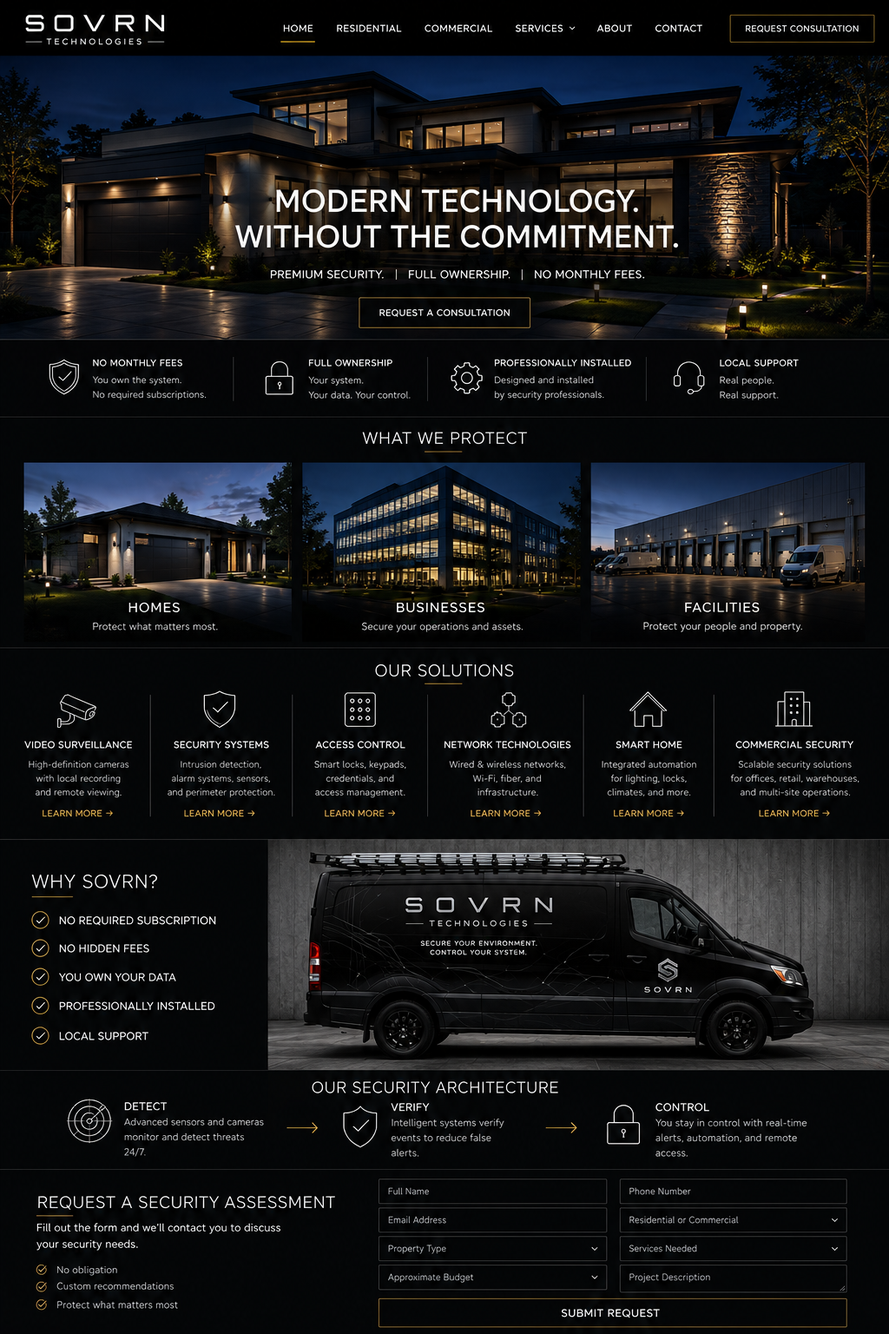
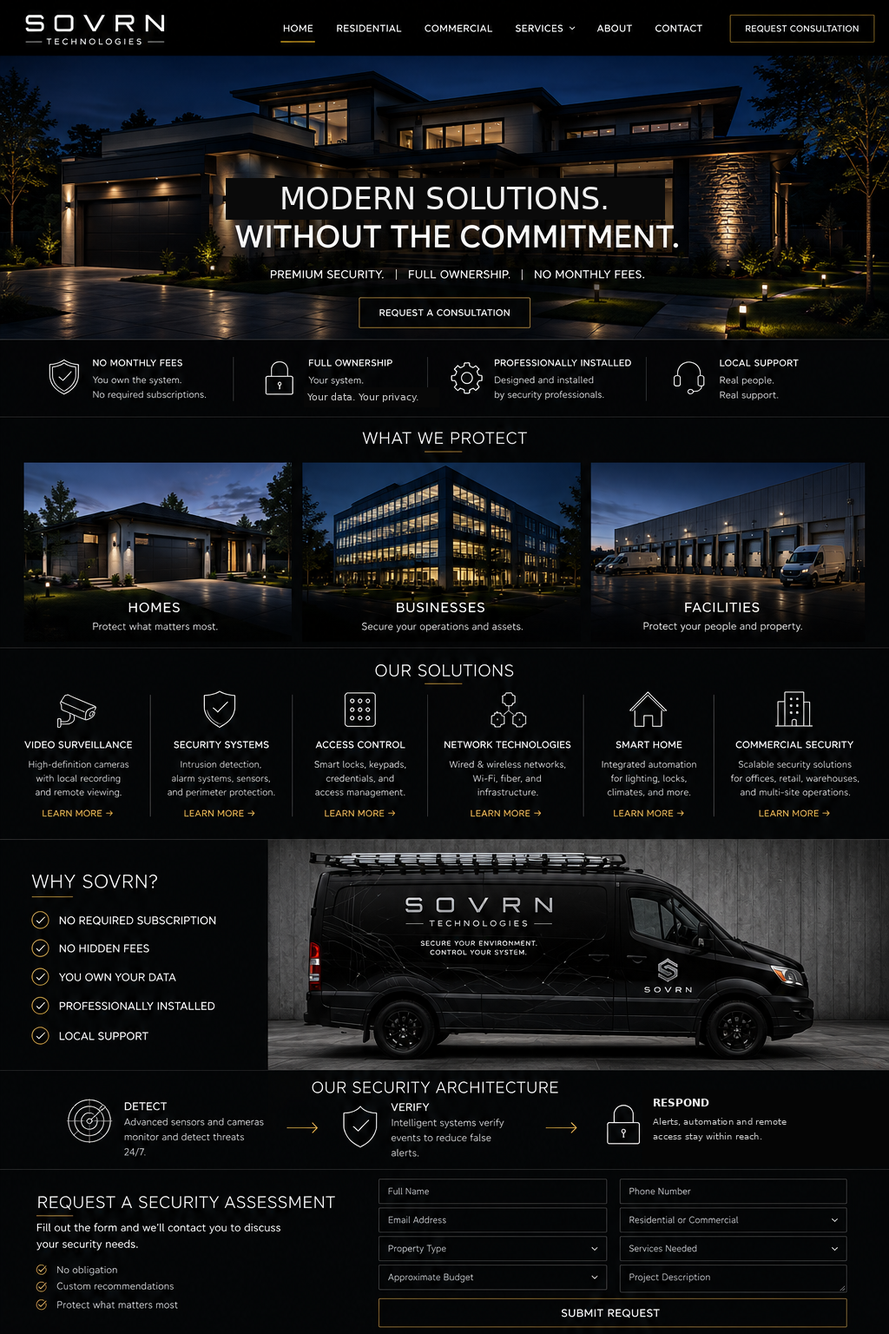
Add files via upload

Changed region(s): [[0.25, 0.125, 0.75, 0.1875], [0.7188, 0.8125, 0.875, 0.875], [0.375, 0.2812, 0.4688, 0.3125]]

diff --git a/commercial.html b/commercial.html
@@ -1,1 +1,2 @@
-<!doctype html><html lang="en"><head><meta charset="utf-8"><meta name="viewport" content="width=device-width,initial-scale=1"><title>Commercial | SOVRN Technologies</title><link rel="stylesheet" href="secondary.css"></head><body><header class="header"><a class="logo" href="index.html"><b>SOVRN</b><small>TECHNOLOGIES</small></a><button class="menu">MENU</button><nav class="nav"><a href="index.html" class="">HOME</a><a href="residential.html" class="">RESIDENTIAL</a><a href="commercial.html" class="active">COMMERCIAL</a><a href="services.html" class="">SERVICES</a><a href="about.html" class="">ABOUT</a><a href="contact.html" class="">CONTACT</a></nav><a class="consult" href="contact.html">REQUEST CONSULTATION</a></header><section class="hero"><div class="hero-bg" style="background-image:url('assets/commercial-card.jpg')"></div><div class="hero-copy"><div class="eyebrow">COMMERCIAL SECURITY</div><h1>SECURITY BUILT<br><span>FOR BUSINESS.</span></h1><p>Integrated security and technology for offices, retail, warehouses and facilities.</p><div class="actions"><a class="btn primary" href="contact.html">REQUEST A SECURITY ASSESSMENT</a><a class="btn" href="services.html">EXPLORE SERVICES</a></div></div></section><section class="benefits"><div><b>NO REQUIRED SUBSCRIPTION</b><span>Own your system. No required monthly fees.</span></div><div><b>NO HIDDEN FEES</b><span>Clear scope. Clear expectations.</span></div><div><b>YOU OWN YOUR DATA</b><span>Your information. Your privacy.</span></div><div><b>LOCAL SUPPORT</b><span>Real people. Real help.</span></div></section><section class="section"><div class="heading"><h2>SECURITY BUILT<br>FOR BUSINESS.</h2><p>Integrated protection for offices, retail, warehouses and facilities — with surveillance, access, intrusion and network infrastructure designed as one environment.</p></div><div class="grid3"><article class="card"><span class="num">01</span><h3>COMMERCIAL VIDEO</h3><p>Coverage for entries, parking areas, workspaces, inventory and critical zones.</p><a href="contact.html">REQUEST DESIGN →</a></article><article class="card"><span class="num">02</span><h3>ACCESS CONTROL</h3><p>Keypads, credentials and controlled access for important areas.</p><a href="contact.html">REQUEST DESIGN →</a></article><article class="card"><span class="num">03</span><h3>NETWORK TECHNOLOGIES</h3><p>Reliable wired, wireless and fiber infrastructure supporting connected security.</p><a href="contact.html">REQUEST DESIGN →</a></article></div></section><section class="split"><div class="photo" style="background-image:url('assets/facilities-card.jpg')"></div><div class="copy"><div class="eyebrow">COMMERCIAL ENVIRONMENTS</div><h2>PROTECT PEOPLE.<br>PROTECT OPERATIONS.</h2><p>From modest offices to larger facilities, the design scales with the property and how the organization works.</p><div class="checks"><div class="check"><i>✓</i><div><b>OFFICES + RETAIL</b><small>Entry control, video and intrusion detection.</small></div></div><div class="check"><i>✓</i><div><b>WAREHOUSES + FACILITIES</b><small>Perimeter, equipment, docks and critical areas.</small></div></div><div class="check"><i>✓</i><div><b>MULTI-SITE READY</b><small>Systems designed with growth in mind.</small></div></div></div></div></section><section class="cta"><div><div class="eyebrow">COMMERCIAL CONSULTATION</div><h2>SECURE THE OPERATION.<br>KEEP THE CONTROL.</h2></div><a class="btn primary" href="contact.html">REQUEST CONSULTATION</a></section><footer><div class="logo"><b>SOVRN</b><small>TECHNOLOGIES</small></div><nav><a href="index.html">HOME</a><a href="residential.html">RESIDENTIAL</a><a href="commercial.html">COMMERCIAL</a><a href="services.html">SERVICES</a><a href="about.html">ABOUT</a><a href="contact.html">CONTACT</a></nav><div class="copy">© 2026 SOVRN TECHNOLOGIES</div></footer><script src="secondary.js"></script></body></html>
+<!doctype html><html lang="en"><head><meta charset="utf-8"><meta name="viewport" content="width=device-width,initial-scale=1"><title>Commercial | SOVRN Technologies</title><link rel="stylesheet" href="secondary.css"></head><body><header class="header"><a class="logo" href="index.html"><b>SOVRN</b><small>TECHNOLOGIES</small></a><button class="menu">MENU</button><nav class="nav"><a href="index.html" class="">HOME</a><a href="residential.html" class="">RESIDENTIAL</a><a href="commercial.html" class="active">COMMERCIAL</a><a href="services.html" class="">SERVICES</a><a href="about.html" class="">ABOUT</a><a href="contact.html" class="">CONTACT</a></nav><a class="consult" href="contact.html">REQUEST CONSULTATION</a></header><section class="hero"><div class="hero-bg" style="background-image:url('assets/commercial-card.jpg')"></div><div class="hero-copy"><div class="eyebrow">COMMERCIAL SECURITY</div><h1>SECURITY BUILT<br><span>FOR BUSINESS.</span></h1><p>Integrated security and technology for offices, retail, warehouses and facilities.</p><div class="actions"><a class="btn primary" href="contact.html">REQUEST A SECURITY ASSESSMENT</a><a class="btn" href="services.html">EXPLORE SERVICES</a></div></div></section>
+<section class="section"><div class="heading"><h2>SECURITY BUILT<br>FOR BUSINESS.</h2><p>Integrated protection for offices, retail, warehouses and facilities — with surveillance, access, intrusion and network infrastructure designed as one environment.</p></div><div class="grid3"><article class="card"><span class="num">01</span><h3>COMMERCIAL VIDEO</h3><p>Coverage for entries, parking areas, workspaces, inventory and critical zones.</p><a href="contact.html">REQUEST DESIGN →</a></article><article class="card"><span class="num">02</span><h3>ACCESS CONTROL</h3><p>Keypads, credentials and controlled access for important areas.</p><a href="contact.html">REQUEST DESIGN →</a></article><article class="card"><span class="num">03</span><h3>NETWORK TECHNOLOGIES</h3><p>Reliable wired, wireless and fiber infrastructure supporting connected security.</p><a href="contact.html">REQUEST DESIGN →</a></article></div></section><section class="split"><div class="photo" style="background-image:url('assets/facilities-card.jpg')"></div><div class="copy"><div class="eyebrow">COMMERCIAL ENVIRONMENTS</div><h2>PROTECT PEOPLE.<br>PROTECT OPERATIONS.</h2><p>From modest offices to larger facilities, the design scales with the property and how the organization works.</p><div class="checks"><div class="check"><i>✓</i><div><b>OFFICES + RETAIL</b><small>Secure entry, video and intrusion detection.</small></div></div><div class="check"><i>✓</i><div><b>WAREHOUSES + FACILITIES</b><small>Perimeter, equipment, docks and critical areas.</small></div></div><div class="check"><i>✓</i><div><b>MULTI-SITE READY</b><small>Systems designed with growth in mind.</small></div></div></div></div></section><section class="cta"><div><div class="eyebrow">COMMERCIAL CONSULTATION</div><h2>SECURE THE OPERATION.<br>KEEP IT MOVING.</h2></div><a class="btn primary" href="contact.html">REQUEST CONSULTATION</a></section><footer><div class="logo"><b>SOVRN</b><small>TECHNOLOGIES</small></div><nav><a href="index.html">HOME</a><a href="residential.html">RESIDENTIAL</a><a href="commercial.html">COMMERCIAL</a><a href="services.html">SERVICES</a><a href="about.html">ABOUT</a><a href="contact.html">CONTACT</a></nav><div class="copy">© 2026 SOVRN TECHNOLOGIES</div></footer><script src="secondary.js"></script></body></html>

diff --git a/residential.html b/residential.html
@@ -1,1 +1,3 @@
-<!doctype html><html lang="en"><head><meta charset="utf-8"><meta name="viewport" content="width=device-width,initial-scale=1"><title>Residential | SOVRN Technologies</title><link rel="stylesheet" href="secondary.css"></head><body><header class="header"><a class="logo" href="index.html"><b>SOVRN</b><small>TECHNOLOGIES</small></a><button class="menu">MENU</button><nav class="nav"><a href="index.html" class="">HOME</a><a href="residential.html" class="active">RESIDENTIAL</a><a href="commercial.html" class="">COMMERCIAL</a><a href="services.html" class="">SERVICES</a><a href="about.html" class="">ABOUT</a><a href="contact.html" class="">CONTACT</a></nav><a class="consult" href="contact.html">REQUEST CONSULTATION</a></header><section class="hero"><div class="hero-bg" style="background-image:url('assets/residential-card.jpg')"></div><div class="hero-copy"><div class="eyebrow">RESIDENTIAL SECURITY</div><h1>YOUR HOME.<br><span>UNDER YOUR CONTROL.</span></h1><p>Modern residential protection with professional installation, ownership and no required subscription.</p><div class="actions"><a class="btn primary" href="contact.html">REQUEST A SECURITY ASSESSMENT</a><a class="btn" href="services.html">EXPLORE SERVICES</a></div></div></section><section class="benefits"><div><b>NO REQUIRED SUBSCRIPTION</b><span>Own your system. No required monthly fees.</span></div><div><b>NO HIDDEN FEES</b><span>Clear scope. Clear expectations.</span></div><div><b>YOU OWN YOUR DATA</b><span>Your information. Your privacy.</span></div><div><b>LOCAL SUPPORT</b><span>Real people. Real help.</span></div></section><section class="section"><div class="heading"><h2>RESIDENTIAL SECURITY.<br>BUILT AROUND REAL LIFE.</h2><p>Modern protection for homes without turning your security into another subscription. SOVRN designs the system around your property, visibility goals and daily routine.</p></div><div class="grid3"><article class="card"><span class="num">01</span><h3>VIDEO SURVEILLANCE</h3><p>High-definition camera coverage with local recording and remote viewing.</p><a href="contact.html">START A PROJECT →</a></article><article class="card"><span class="num">02</span><h3>SECURITY SYSTEMS</h3><p>Door, window, motion and perimeter detection designed around the home.</p><a href="contact.html">START A PROJECT →</a></article><article class="card"><span class="num">03</span><h3>SMART HOME</h3><p>Lighting, locks, cameras and automation brought into one controlled environment.</p><a href="contact.html">START A PROJECT →</a></article></div></section><section class="split"><div class="copy"><div class="eyebrow">YOUR HOME. YOUR CONTROL.</div><h2>PROTECTION WITHOUT<br>THE OVERKILL.</h2><p>The right residential system should feel intentional, not excessive. We focus coverage where it matters and keep control with the homeowner.</p><div class="checks"><div class="check"><i>✓</i><div><b>ENTRY POINTS</b><small>Doors, windows and primary access.</small></div></div><div class="check"><i>✓</i><div><b>PERIMETER AWARENESS</b><small>Know what is happening around the property.</small></div></div><div class="check"><i>✓</i><div><b>CONNECTED CONTROL</b><small>Security, networking and smart technologies working together.</small></div></div></div></div><div class="photo" style="background-image:url('assets/residential-card.jpg')"></div></section><section class="cta"><div><div class="eyebrow">START A PROJECT</div><h2>MODERN HOME SECURITY.<br>WITHOUT THE COMMITMENT.</h2></div><a class="btn primary" href="contact.html">REQUEST ASSESSMENT</a></section><footer><div class="logo"><b>SOVRN</b><small>TECHNOLOGIES</small></div><nav><a href="index.html">HOME</a><a href="residential.html">RESIDENTIAL</a><a href="commercial.html">COMMERCIAL</a><a href="services.html">SERVICES</a><a href="about.html">ABOUT</a><a href="contact.html">CONTACT</a></nav><div class="copy">© 2026 SOVRN TECHNOLOGIES</div></footer><script src="secondary.js"></script></body></html>
+<!doctype html><html lang="en"><head><meta charset="utf-8"><meta name="viewport" content="width=device-width,initial-scale=1"><title>Residential | SOVRN Technologies</title><link rel="stylesheet" href="secondary.css"></head><body><header class="header"><a class="logo" href="index.html"><b>SOVRN</b><small>TECHNOLOGIES</small></a><button class="menu">MENU</button><nav class="nav"><a href="index.html" class="">HOME</a><a href="residential.html" class="active">RESIDENTIAL</a><a href="commercial.html" class="">COMMERCIAL</a><a href="services.html" class="">SERVICES</a><a href="about.html" class="">ABOUT</a><a href="contact.html" class="">CONTACT</a></nav><a class="consult" href="contact.html">REQUEST CONSULTATION</a></header><section class="hero"><div class="hero-bg" style="background-image:url('assets/residential-card.jpg')"></div><div class="hero-copy"><div class="eyebrow">RESIDENTIAL SECURITY</div><h1>YOUR HOME.<br><span>UNDER YOUR SUPERVISION.</span></h1><p>Modern residential protection with professional installation, ownership and no required subscription.</p><div class="actions"><a class="btn primary" href="contact.html">REQUEST A SECURITY ASSESSMENT</a><a class="btn" href="services.html">EXPLORE SERVICES</a></div></div></section>
+<section class="section"><div class="heading"><h2>SECURITY WITH<br>BOUNDARIES.</h2><p>Modern protection for homes without turning your security into another subscription. SOVRN designs the system around your property, visibility goals and daily routine.</p></div><div class="grid3"><article class="card"><span class="num">01</span><h3>VIDEO SURVEILLANCE</h3><p>High-definition camera coverage with local recording and remote viewing.</p><a href="contact.html">START A PROJECT →</a></article><article class="card"><span class="num">02</span><h3>SECURITY SYSTEMS</h3><p>Door, window, motion and perimeter detection designed around the home.</p><a href="contact.html">START A PROJECT →</a></article><article class="card"><span class="num">03</span><h3>SMART HOME</h3><p>Lighting, locks, cameras and automation brought into one controlled environment.</p><a href="contact.html">START A PROJECT →</a></article></div></section>
+<section class="cta"><div><div class="eyebrow">START A PROJECT</div><h2>MODERN HOME SECURITY.<br>WITHOUT THE COMMITMENT.</h2></div><a class="btn primary" href="contact.html">REQUEST ASSESSMENT</a></section><footer><div class="logo"><b>SOVRN</b><small>TECHNOLOGIES</small></div><nav><a href="index.html">HOME</a><a href="residential.html">RESIDENTIAL</a><a href="commercial.html">COMMERCIAL</a><a href="services.html">SERVICES</a><a href="about.html">ABOUT</a><a href="contact.html">CONTACT</a></nav><div class="copy">© 2026 SOVRN TECHNOLOGIES</div></footer><script src="secondary.js"></script></body></html>

diff --git a/services.html b/services.html
@@ -21,30 +21,40 @@
 <div class="hero-bg hero-zoomout" style="background-image:url('assets/services-network-hero.jpg');background-position:center"></div>
 <div class="hero-copy">
 <div class="eyebrow">SOVRN SERVICES</div>
-<h1>CONNECTED TECHNOLOGY.<br><span>ONE ENVIRONMENT.</span></h1>
-<p>Security, networking and intelligent technology designed to work together — without forcing you into a subscription.</p>
+<h1>CONNECTED TECHNOLOGY.</h1>
+<p>Security, networking and intelligent technology designed to work together.</p>
 <div class="actions"><a class="btn primary" href="contact.html">REQUEST A CONSULTATION</a><a class="btn" href="#solutions">EXPLORE SERVICES</a></div>
 </div>
 </section>
-<section class="benefits">
-<div><b>NO REQUIRED SUBSCRIPTION</b><span>Own your system. No required monthly fees.</span></div>
-<div><b>NO HIDDEN FEES</b><span>Clear scope. Clear expectations.</span></div>
-<div><b>YOU OWN YOUR DATA</b><span>Your information. Your privacy.</span></div>
-<div><b>LOCAL SUPPORT</b><span>Real people. Real help.</span></div>
-</section>
 <section class="section" id="solutions">
-<div class="heading"><h2>SECURITY + TECHNOLOGY.<br>BUILT AS ONE SYSTEM.</h2><p>SOVRN designs the complete environment around your property, your priorities and your ownership. Each system can stand on its own or work together as part of a larger connected solution.</p></div>
+<div class="heading"><h2>BUILT AS ONE SYSTEM.</h2><p>SOVRN designs the complete environment around your property, your priorities and your ownership. Each system can stand on its own or work together as part of a larger connected solution.</p></div>
 <div class="grid3">
 <article class="card" id="video"><span class="num">01</span><h3>VIDEO SURVEILLANCE</h3><p>High-definition camera coverage with intelligent detection, local recording and remote viewing.</p><a href="contact.html">START A PROJECT →</a></article>
 <article class="card" id="security"><span class="num">02</span><h3>SECURITY SYSTEMS</h3><p>Door, window, motion and perimeter detection designed around the property.</p><a href="contact.html">START A PROJECT →</a></article>
 <article class="card" id="access"><span class="num">03</span><h3>ACCESS CONTROL</h3><p>Controlled entry with keypads, credentials and secure access to important areas.</p><a href="contact.html">START A PROJECT →</a></article>
 <article class="card" id="network"><span class="num">04</span><h3>NETWORK TECHNOLOGIES</h3><p>Reliable wired, wireless and fiber infrastructure supporting security and connected devices.</p><a href="contact.html">START A PROJECT →</a></article>
-<article class="card" id="smart"><span class="num">05</span><h3>SMART HOME</h3><p>Lighting, locks, cameras and automation brought together under your control.</p><a href="contact.html">START A PROJECT →</a></article>
+<article class="card" id="smart"><span class="num">05</span><h3>SMART HOME</h3><p>Lighting, locks, cameras and automation brought together in one connected system.</p><a href="contact.html">START A PROJECT →</a></article>
 <article class="card" id="commercial-security"><span class="num">06</span><h3>COMMERCIAL SECURITY</h3><p>Scalable protection for offices, retail, warehouses and larger facilities.</p><a href="contact.html">START A PROJECT →</a></article>
 </div></section>
+
+<section class="split service-support">
+  <div class="photo service-van-photo" style="background-image:url('assets/van.jpg')"></div>
+  <div class="copy">
+    <div class="eyebrow">SERVICE AFTER INSTALLATION</div>
+    <h2>REAL TECHS.<br>HELP RIGHT AWAY.</h2>
+    <p>When customers call, SOVRN has technicians available to service installed equipment and help resolve issues.</p>
+    <p>Customers have direct access to real help when they need it — without being passed through layers of automated support.</p>
+    <div class="checks">
+      <div class="check"><i>✓</i><div><b>EQUIPMENT SERVICE</b><small>Technicians available to diagnose and service installed equipment.</small></div></div>
+      <div class="check"><i>✓</i><div><b>DIRECT HELP</b><small>Fast access to support when questions or issues come up.</small></div></div>
+      <div class="check"><i>✓</i><div><b>LOCAL RESPONSE</b><small>Support from people who understand the system and installation.</small></div></div>
+    </div>
+  </div>
+</section>
+
 <section class="section dark">
-<div class="heading"><h2>DETECT. VERIFY.<br>CONTROL.</h2><p>Our systems are designed around a simple architecture: detect what matters, verify what is happening and keep control with the property owner.</p></div>
-<div class="process"><article><b>DETECT</b><p>Sensors and cameras create awareness across the property.</p></article><div class="arrow">→</div><article><b>VERIFY</b><p>Video and intelligent systems add context and reduce uncertainty.</p></article><div class="arrow">→</div><article><b>CONTROL</b><p>You stay in control of alerts, access, automation and data.</p></article></div>
+<div class="heading"><h2>DETECT. VERIFY.<br>RESPOND.</h2><p>Our systems are designed around a simple architecture: detect what matters, verify what is happening and make the next step easy.</p></div>
+<div class="process"><article><b>DETECT</b><p>Sensors and cameras create awareness across the property.</p></article><div class="arrow">→</div><article><b>VERIFY</b><p>Video and intelligent systems add context and reduce uncertainty.</p></article><div class="arrow">→</div><article><b>RESPOND</b><p>Alerts, access and automation remain easy to reach when you need them.</p></article></div>
 </section>
 <section class="cta"><div><div class="eyebrow">START A PROJECT</div><h2>MODERN TECHNOLOGY.<br>WITHOUT THE COMMITMENT.</h2></div><a class="btn primary" href="contact.html">REQUEST CONSULTATION</a></section>
 <footer>

diff --git a/about.html b/about.html
@@ -21,33 +21,27 @@
 <div class="hero-bg hero-zoomout" style="background-image:url('assets/about-merced-hero.jpg');background-position:center"></div>
 <div class="hero-copy">
 <div class="eyebrow">BUILT IN MERCED, CALIFORNIA</div>
-<h1>LOCAL ROOTS.<br><span>REAL OWNERSHIP.</span></h1>
-<p>SOVRN Technologies was built around a simple mission: modern security should give people more control, not more dependency.</p>
+<h1>LOCAL ROOTS.<br><span>MADE FOR THE PEOPLE.</span></h1>
+<p>SOVRN Technologies was built on one mission: Modern Technology should give people more independence.</p>
 <div class="actions"><a class="btn primary" href="contact.html">REQUEST A CONSULTATION</a><a class="btn" href="services.html">EXPLORE SERVICES</a></div>
 </div>
 </section>
-<section class="benefits">
-<div><b>NO REQUIRED SUBSCRIPTION</b><span>Own your system. No required monthly fees.</span></div>
-<div><b>NO HIDDEN FEES</b><span>Clear scope. Clear expectations.</span></div>
-<div><b>YOU OWN YOUR DATA</b><span>Your information. Your privacy.</span></div>
-<div><b>LOCAL SUPPORT</b><span>Real people. Real help.</span></div>
-</section>
 <section class="section">
-<div class="heading"><h2>TECHNOLOGY SHOULD<br>EMPOWER THE OWNER.</h2><p>Too many modern systems are built around permanent subscriptions, locked ecosystems and cloud dependence. SOVRN is built around a different idea: the customer should remain in control of the equipment, the data and the ongoing relationship.</p></div>
+<div class="heading"><h2>TECHNOLOGY SHOULD<br>EMPOWER THE OWNER.</h2><p>Too many modern systems are built around permanent subscriptions, locked ecosystems and cloud dependence. SOVRN is built around a different idea: the customer should own the equipment, the data and the ongoing relationship.</p></div>
 <div class="grid3">
 <article class="card"><span class="num">01</span><h3>OWN THE SYSTEM</h3><p>Your equipment should belong to you. We design around long-term ownership rather than rental dependency.</p><a href="contact.html">START A PROJECT →</a></article>
-<article class="card"><span class="num">02</span><h3>LOCAL STORAGE FIRST</h3><p>Whenever practical, recordings and critical data remain on-site under the customer's control.</p><a href="contact.html">START A PROJECT →</a></article>
+<article class="card"><span class="num">02</span><h3>LOCAL STORAGE FIRST</h3><p>Whenever practical, recordings and critical data remain on-site with the customer.</p><a href="contact.html">START A PROJECT →</a></article>
 <article class="card"><span class="num">03</span><h3>OPTIONAL CLOUD</h3><p>Cloud backup and convenience can be added when useful, without making the entire system dependent on it.</p><a href="contact.html">START A PROJECT →</a></article>
 </div></section>
 <section class="split">
 <div class="copy"><div class="eyebrow">OUR MISSION</div><h2>FREE PEOPLE FROM<br>SUBSCRIPTION DEPENDENCY.</h2>
 <p>We want homeowners and businesses to have access to professional-grade technology without being forced to keep paying every month just to use the equipment they already purchased.</p>
-<p>That means designing systems around <strong>local storage, customer ownership and clear choices.</strong> If cloud services provide real value, they can remain optional. If local control is the priority, the system should be able to function around that priority.</p>
-<div class="checks"><div class="check"><i>✓</i><div><b>NO REQUIRED SUBSCRIPTION</b><small>A recurring plan should be a choice, not a requirement.</small></div></div><div class="check"><i>✓</i><div><b>YOU OWN YOUR DATA</b><small>Your information stays under your control.</small></div></div><div class="check"><i>✓</i><div><b>LOCAL SUPPORT</b><small>Built to serve Merced and the surrounding Central Valley.</small></div></div></div>
+<p>That means designing systems around <strong>local storage, customer ownership and clear choices.</strong> If cloud services provide real value, they can remain optional. If local storage is the priority, the system should be able to function around that priority.</p>
+<div class="checks"><div class="check"><i>✓</i><div><b>NO REQUIRED SUBSCRIPTION</b><small>A recurring plan should be a choice, not a requirement.</small></div></div><div class="check"><i>✓</i><div><b>YOU OWN YOUR DATA</b><small>Your information stays with you.</small></div></div><div class="check"><i>✓</i><div><b>LOCAL SUPPORT</b><small>Built to serve Merced and the surrounding Central Valley.</small></div></div></div>
 </div>
 <div class="photo" style="background-image:url('assets/about-merced-hero.jpg');background-position:center"></div>
 </section>
-<section class="cta"><div><div class="eyebrow">SOVRN TECHNOLOGIES</div><h2>YOUR PROPERTY.<br>YOUR SYSTEM. YOUR CONTROL.</h2></div><a class="btn primary" href="contact.html">REQUEST CONSULTATION</a></section>
+<section class="cta"><div><div class="eyebrow">SOVRN TECHNOLOGIES</div><h2>YOUR PROPERTY.<br>YOUR SYSTEM. YOURS.</h2></div><a class="btn primary" href="contact.html">REQUEST CONSULTATION</a></section>
 <footer>
 <div class="logo"><b>SOVRN</b><small>TECHNOLOGIES</small></div>
 <nav>

diff --git a/index.html b/index.html
@@ -4,7 +4,7 @@
 <meta charset="utf-8">
 <meta name="viewport" content="width=device-width,initial-scale=1,viewport-fit=cover">
 <title>SOVRN Technologies</title>
-<meta name="description" content="Modern Technology. Without the Commitment. Premium security, full ownership, no monthly fees.">
+<meta name="description" content="Modern Solutions. Without the Commitment. Premium security, full ownership, no monthly fees.">
 <link rel="stylesheet" href="home.css">
 </head>
 <body>
@@ -86,7 +86,7 @@
     <div class="m-hero-bg"></div>
     <div class="m-hero-copy">
       <div class="eyebrow">SOVRN TECHNOLOGIES</div>
-      <h1>MODERN TECHNOLOGY.<br><span>WITHOUT THE COMMITMENT.</span></h1>
+      <h1>MODERN SOLUTIONS.<br><span>WITHOUT THE COMMITMENT.</span></h1>
       <p>Premium security. Full ownership. No monthly fees.</p>
       <a class="m-btn primary" href="contact.html">REQUEST A CONSULTATION</a>
     </div>
@@ -131,11 +131,11 @@
 
   <section class="m-section m-why">
     <div class="eyebrow">WHY SOVRN?</div>
-    <h2>YOUR PROPERTY.<br>YOUR SYSTEM.<br>YOUR CONTROL.</h2>
+    <h2>YOUR PROPERTY.<br>YOUR SYSTEM.<br>YOURS.</h2>
     <div class="m-checks">
       <div>✓ <span><b>NO REQUIRED SUBSCRIPTION</b><small>Own your system without a required monthly plan.</small></span></div>
       <div>✓ <span><b>NO HIDDEN FEES</b><small>Clear recommendations and expectations.</small></span></div>
-      <div>✓ <span><b>YOU OWN YOUR DATA</b><small>Your information. Your privacy. Your control.</small></span></div>
+      <div>✓ <span><b>YOU OWN YOUR DATA</b><small>Your information. Your privacy.</small></span></div>
       <div>✓ <span><b>PROFESSIONALLY INSTALLED</b><small>Designed and installed for dependable performance.</small></span></div>
       <div>✓ <span><b>LOCAL SUPPORT</b><small>Real help from people you can reach.</small></span></div>
     </div>
@@ -144,11 +144,11 @@
 
   <section class="m-section alt">
     <div class="eyebrow">OUR SECURITY ARCHITECTURE</div>
-    <h2>DETECT.<br>VERIFY.<br>CONTROL.</h2>
+    <h2>DETECT.<br>VERIFY.<br>RESPOND.</h2>
     <div class="m-process">
       <article><span>01</span><b>DETECT</b><p>Sensors and cameras create awareness across the property.</p></article>
       <article><span>02</span><b>VERIFY</b><p>Video and intelligent systems add context and reduce false alerts.</p></article>
-      <article><span>03</span><b>CONTROL</b><p>You stay in control with alerts, automation and remote access.</p></article>
+      <article><span>03</span><b>RESPOND</b><p>Alerts, automation and remote access stay within reach.</p></article>
     </div>
   </section>
 

diff --git a/contact.html b/contact.html
@@ -22,15 +22,9 @@
 <div class="hero-copy">
 <div class="eyebrow">CONTACT SOVRN</div>
 <h1>LET'S BUILD<br><span>YOUR SYSTEM.</span></h1>
-<p>Tell us what you want to protect, connect or automate. We'll help design a system around your property and the level of control you want.</p>
+<p>Tell us what you want to protect, connect or automate. We'll help design a system around your property and priorities.</p>
 <div class="actions"><a class="btn primary" href="#contact-form">REQUEST A SECURITY ASSESSMENT</a><a class="btn" href="services.html">EXPLORE SERVICES</a></div>
 </div>
-</section>
-<section class="benefits">
-<div><b>NO REQUIRED SUBSCRIPTION</b><span>Own your system. No required monthly fees.</span></div>
-<div><b>NO HIDDEN FEES</b><span>Clear scope. Clear expectations.</span></div>
-<div><b>YOU OWN YOUR DATA</b><span>Your information. Your privacy.</span></div>
-<div><b>LOCAL SUPPORT</b><span>Real people. Real help.</span></div>
 </section>
 <section class="contact" id="contact-form">
 <div class="intro"><div class="eyebrow">START A PROJECT</div><h1>REQUEST A<br>SECURITY ASSESSMENT.</h1><p>Share a few details about your property and what you want the system to accomplish. The current form opens your email application with the information prepared for you.</p></div>

diff --git a/secondary.css b/secondary.css
@@ -70,3 +70,10 @@ footer{display:flex;justify-content:space-between;align-items:center;gap:30px;pa
     background-position:center center !important;
   }
 }
+
+/* Requested Services support block: preserve existing site design language. */
+.service-support .service-van-photo{
+  background-size:cover;
+  background-repeat:no-repeat;
+  background-position:center;
+}
